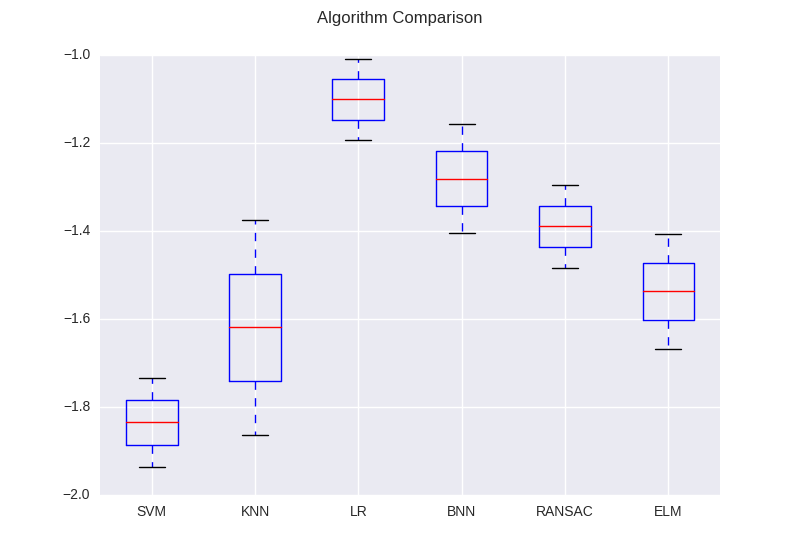
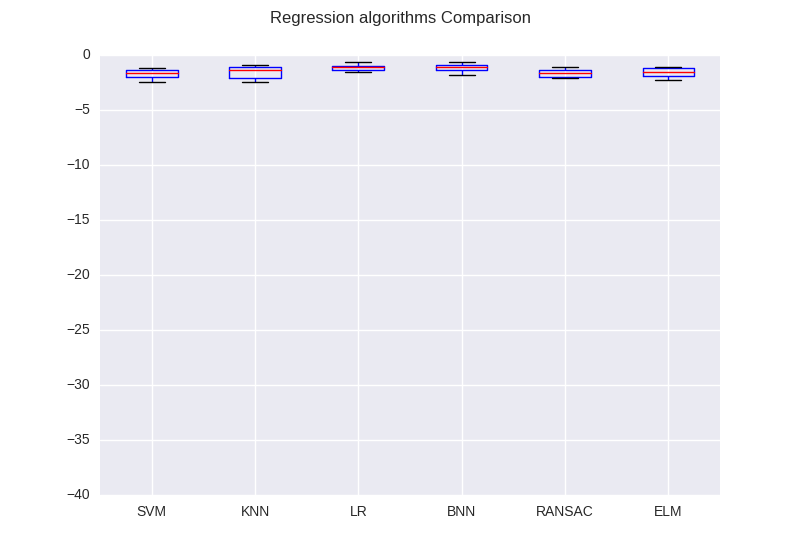
Regression results

diff --git a/main.py b/main.py
@@ -93,8 +93,10 @@ def detect(regression_model, future_prediction_model, past_prediction_horizon, t
     return fa_rate, md_rate, threshold
 
 
-def compare_regression_algorithms(training_xs, training_ys):
-    RegressionToolbox.compare_regression_algorithms(training_xs, training_ys, 5)
+def compare_regression_algorithms():
+    mat_reader = MatReader()
+    training_ts, training_xs, training_ys = mat_reader.read('ColdComplaintData/Training')
+    RegressionToolbox.compare_regression_algorithms(training_xs, training_ys, 10)
 
 
 # only perform cross validation between training and validation sets
@@ -120,7 +122,7 @@ if __name__ == '__main__':
     if args.type == 1:
         best_run()
     elif args.type == 2:
-        compare_training_validation()
+        compare_regression_algorithms()
     elif args.type == 3:
         compare_training_validation()
     elif args.type == 4:

diff --git a/regression_toolbox.py b/regression_toolbox.py
@@ -29,7 +29,7 @@ class RegressionToolbox:
 
         # boxplot algorithm comparison
         fig = plt.figure()
-        fig.suptitle('Algorithm Comparison')
+        fig.suptitle('Regression algorithms Comparison')
         ax = fig.add_subplot(111)
         plt.boxplot(results)
         ax.set_xticklabels(names)
